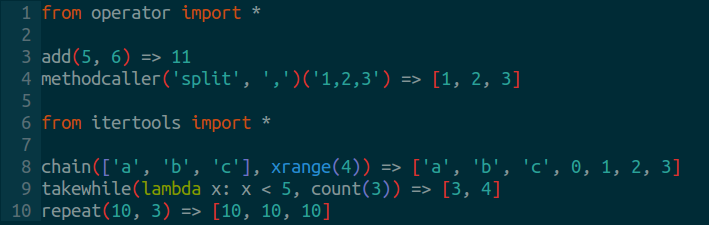
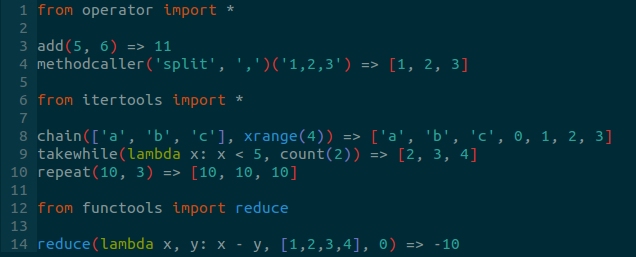
reduce lol

diff --git a/ejemplos.py b/ejemplos.py
@@ -1,0 +1,14 @@
+from operator import *
+
+add(5, 6) => 11
+methodcaller('split', ',')('1,2,3') => [1, 2, 3]
+
+from itertools import *
+
+chain(['a', 'b', 'c'], xrange(4)) => ['a', 'b', 'c', 0, 1, 2, 3]
+takewhile(lambda x: x < 5, count(2)) => [2, 3, 4]
+repeat(10, 3) => [10, 10, 10]
+
+from functools import reduce
+
+reduce(lambda x, y: x - y, [1,2,3,4], 0) => -10
